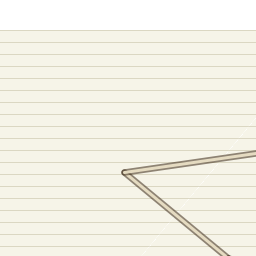
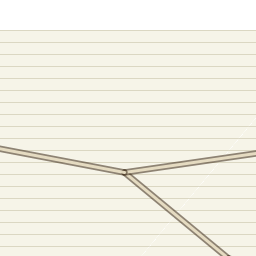
T2: add the Vielsalm-Durbuy supply road
Durbuy had road degree 2 while the American northern shoulder (St. Vith,
Vielsalm, Erezee) drew supply through the single Marche gate, so one central
capture could strand almost half the American map: Beauraing+Marche cut 14 of
26 territories, and 103 different two-territory pairs cut 10 or more.

Adding the Vielsalm-Durbuy road (7th Armored's St. Vith withdrawal route,
already a movement edge) ties the northern shoulder to the western road net
directly. Verified on the regenerated road graph:
- worst two-territory German capture now severs 4 territories, uniquely at
  Neufchateau+Wiltz (the Bastogne pocket), down from 14
- no two-territory pair severs 10 or more; isolating a large area now requires
  a three-territory combination

genxml.py: ('Vielsalm','Durbuy') added to ROADS with rationale; the comment now
lists Hotton-Marche as the single remaining supply-only cut. Full pipeline
re-run: reliefTiles 3_0 and 4_0 redrawn with the new road (base tiles, smallMap
and name_place unchanged; name_place is font-dependent and left as-is).
validate_map.py updated (46 roads, Vielsalm-Durbuy asserted present); README
supply-cut section and tools/README updated; manifest byte counts refreshed.

Claude-Session: https://claude.ai/code/session_01RQgMLHW9whKtMMRqnQn7kk

Changed region(s): [[0.0, 0.5625, 0.5, 0.6875]]

diff --git a/maps/small_front_meuse/tools/genxml.py b/maps/small_front_meuse/tools/genxml.py
@@ -34,9 +34,14 @@ SUPPLY_SOURCES = {
     'Dinant': 'Americans', 'Givet': 'Americans',
 }
 
-# Main roads only. Two former cross-links are deliberately absent:
-# Vielsalm-Durbuy and Hotton-Marche. Movement remains possible across those borders.
-# La Roche-Marche preserves a second central supply axis without restoring a direct bypass.
+# Main roads only. One former cross-link is deliberately absent: Hotton-Marche. Movement
+# remains possible across that border. La Roche-Marche preserves a second central supply axis
+# without restoring a direct bypass.
+# Vielsalm-Durbuy is a road (7th Armored's St. Vith withdrawal route): without it the American
+# northern shoulder draws supply through the single Marche gate, so one central capture
+# (Beauraing+Marche) strands 14 of 26 territories. The road caps the worst two-territory cut at
+# 4 (the Neufchateau+Wiltz Bastogne pocket) and forces a three-territory combination for anything
+# larger, turning "half the map at once" into taking pockets one at a time.
 ROADS = [
     ('Prum', 'Blankenheim'), ('Prum', 'Bitburg'), ('Bitburg', 'Echternach'),
     ('Blankenheim', 'Losheim Gap'), ('Prum', 'Clervaux'), ('Bitburg', 'Vianden'),
@@ -45,6 +50,7 @@ ROADS = [
     ('Bastogne', 'Martelange'),
     ('St. Vith', 'Vielsalm'), ('Houffalize', 'Erezee'), ('Wiltz', 'Hotton'),
     ('Bastogne', 'Saint-Hubert'), ('Martelange', 'Libramont'),
+    ('Vielsalm', 'Durbuy'),
     ('Vielsalm', 'Erezee'), ('Erezee', 'La Roche'), ('La Roche', 'Hotton'),
     ('La Roche', 'Marche'), ('Hotton', 'Nassogne'), ('Nassogne', 'Neufchateau'),
     ('Saint-Hubert', 'Libramont'), ('Libramont', 'Neufchateau'),

diff --git a/maps/small_front_meuse/tools/validate_map.py b/maps/small_front_meuse/tools/validate_map.py
@@ -51,12 +51,12 @@ for attachment in game_root.findall("./attachmentList/attachment"):
                 assert target in territories
                 roads.add(tuple(sorted((source, target))))
 
-assert len(roads) == 45, len(roads)
+assert len(roads) == 46, len(roads)
 assert roads <= movement_edges, roads - movement_edges
 assert tuple(sorted(("La Roche", "Marche"))) in roads
 assert tuple(sorted(("Libramont", "Neufchateau"))) in roads
+assert tuple(sorted(("Vielsalm", "Durbuy"))) in roads
 for removed in {
-    tuple(sorted(("Vielsalm", "Durbuy"))),
     tuple(sorted(("Hotton", "Marche"))),
 }:
     assert removed not in roads, removed

diff --git a/maps/small_front_meuse/README.md b/maps/small_front_meuse/README.md
@@ -51,15 +51,23 @@ The Voronoi adjacency is not used as-is. Five candidate edges are dropped:
 
 ### Supply road cuts
 
-Roads are a strict subset of movement edges: 45 of 67, leaving 22 borders that units may cross but
-that carry no supply. Most of those 22 are the natural consequence of the road network being a
-curated spine rather than every adjacency; two of them are deliberate supply-only cuts:
-Vielsalm-Durbuy and Hotton-Marche remain legal movement edges but do not carry supply, so a pocket
-can be isolated across those borders even while the front can still be crossed. La Roche-Marche
-provides an indirect second route across the central plateau, so losing Hotton, Nassogne or
-Neufchateau alone cannot divide the entire road network. A spearhead can still manoeuvre off-road,
-and coordinated control of several road hubs can isolate a meaningful pocket without making one
-central territory an automatic half-map cutoff.
+Roads are a strict subset of movement edges: 46 of 67, leaving 21 borders that units may cross but
+that carry no supply. Most of those 21 are the natural consequence of the road network being a
+curated spine rather than every adjacency; one of them is a deliberate supply-only cut:
+Hotton-Marche remains a legal movement edge but does not carry supply, so a pocket can be isolated
+across that border even while the front can still be crossed. La Roche-Marche provides an indirect
+second route across the central plateau, so losing Hotton, Nassogne or Neufchateau alone cannot
+divide the entire road network. A spearhead can still manoeuvre off-road, and coordinated control
+of several road hubs can isolate a meaningful pocket without making one central territory an
+automatic half-map cutoff.
+
+The Vielsalm-Durbuy road (the 7th Armored's St. Vith withdrawal route) ties the American northern
+shoulder to the western road net directly instead of routing it all through the Marche gate.
+Without it, one central capture strands almost half the American map at once — Beauraing+Marche cuts
+14 of 26 territories. With it, the worst any two German captures can sever is 4 territories, and
+that worst case is the Neufchateau+Wiltz Bastogne pocket; anything larger needs a three-territory
+combination. Isolation becomes a matter of building pockets one at a time rather than collapsing a
+whole flank in a single move.
 
 ## Air operations and armour
 

diff --git a/maps/small_front_meuse/tools/README.md b/maps/small_front_meuse/tools/README.md
@@ -22,10 +22,9 @@ renderer and the game rules: a road only appears on the map if the XML declares 
 
 `genxml.py` drops the edges in its `DROP` set to create the forest wall and the river crossings, and
 asserts every declared road is a real movement edge, so a typo in `ROADS` fails the build rather than
-silently orphaning supply. The two supply-only cuts are declared by omitting Vielsalm-Durbuy and
-Hotton-Marche from `ROADS`; those borders remain movement edges. La Roche-Marche remains a supply
-road, giving the central plateau an indirect second axis without restoring the removed Hotton-Marche
-shortcut.
+silently orphaning supply. The one supply-only cut is declared by omitting Hotton-Marche from
+`ROADS`; that border remains a movement edge. La Roche-Marche remains a supply road, giving the
+central plateau an indirect second axis without restoring the removed Hotton-Marche shortcut.
 
 `UnitGen` writes 48x48 transparent PNG counters for both players. Every counter uses a rectangular
 unit frame and a battalion `II` echelon marker. Armour uses a horizontal oval, mechanized infantry
